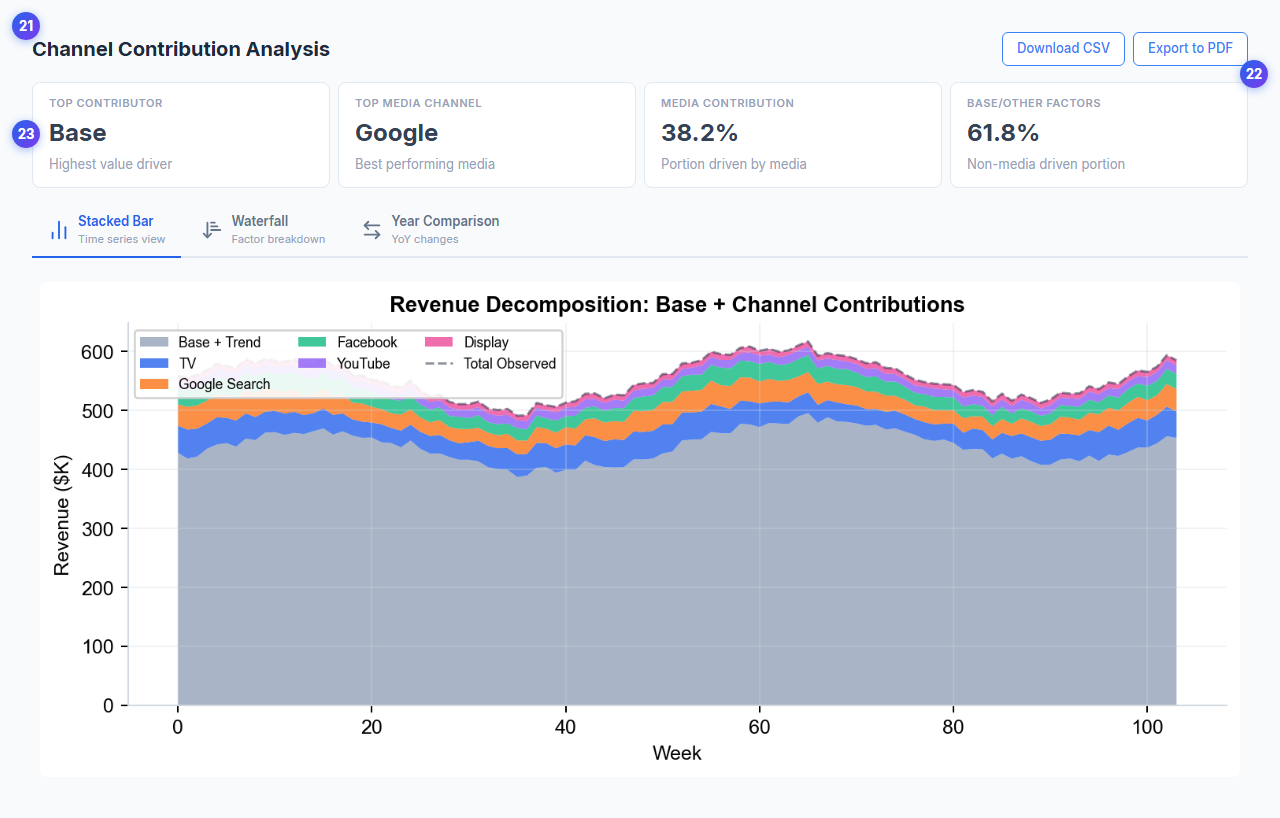
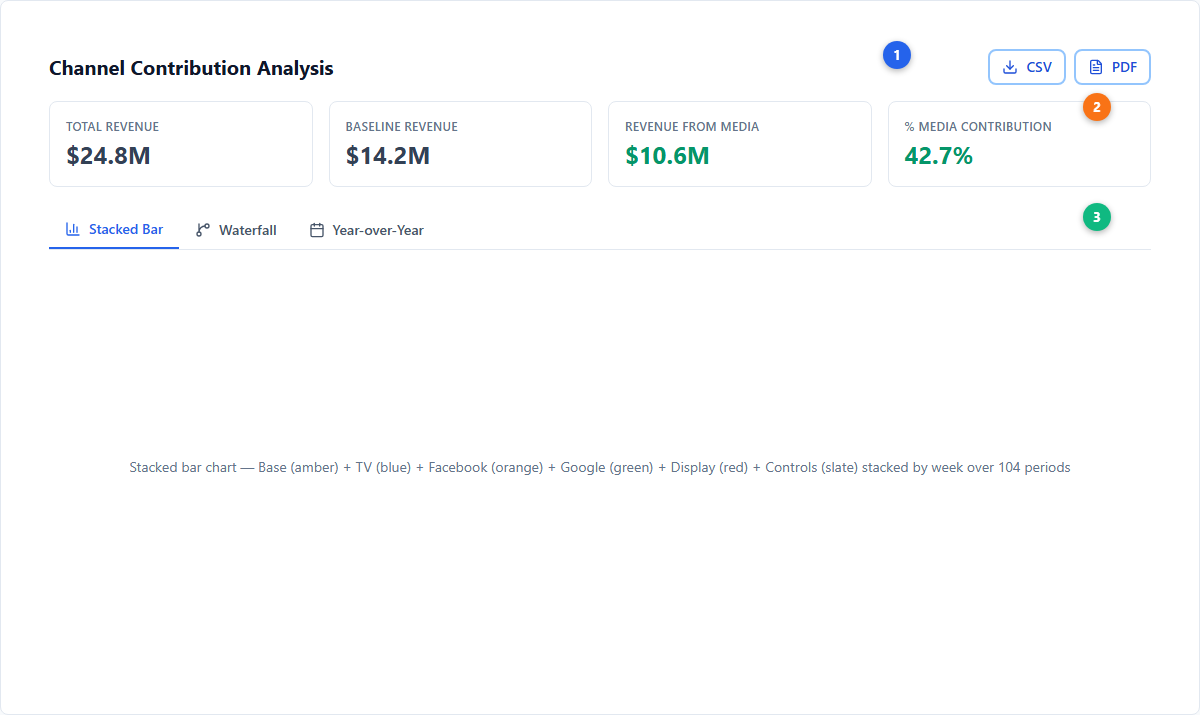
docs: add 9 UI mockups to measurement platform guide
- Create pixel-accurate mockups for all 7 MMM result tabs + VAR tab bar
  - Navigation/tab bar with Model Summary header
  - Coefficients: expandable table with green/red row highlighting
  - Model Stats: diagnostics table with traffic-light badges
  - AvM: metric cards + Plotly actual vs model chart
  - Residuals: 4 stat cards + Plotly histogram with normal overlay
  - Media Results: executive summary + channel performance table with
    halo (purple) and trademark (amber) badges
  - Curves: Plotly response curves with tanh saturation
  - Contributions: summary stats + stacked bar/waterfall/YoY tabs
  - VAR tabs: comparison showing analysis trio replacing MMM tabs
- Remove italic captions under images (annotation tables replace them)
- All screenshots verified: ≥1000px width, annotations visible, 8pt grid

diff --git a/docs/platform-guide/measurement.md b/docs/platform-guide/measurement.md
@@ -19,7 +19,6 @@ The Active Model page has three main areas:
 Every tab includes **Download CSV** and **Export to PDF** buttons for offline analysis and stakeholder reporting.
 
 ![Active Model navigation and metadata bar](./images/measurement-navigation-tabs.png)
-*The Model Summary bar and tab navigation for an MMM model. MMM models show seven tabs; VAR models show a different set with Impulse Response, Variance Decomposition, and Long-Run Effects replacing Media Results, Curves, and Contributions.*
 
 | # | Element | Description |
 |---|---------|-------------|
@@ -46,7 +45,6 @@ The Coefficients tab displays posterior parameter estimates in a table with thes
 Rows are color-coded: green background for positive coefficients, red background for negative. Clicking a row expands it to show either the full posterior sample detail or, for time-varying parameters (TVP), an interactive time series chart with [94% HDI](../core-concepts/bayesian-modeling.md) bands showing how the coefficient evolves over the model's date range.
 
 ![Coefficients table](./images/measurement-coefficients-tab.png)
-*The Coefficients table with posterior estimates. Green rows indicate positive effects; red rows indicate negative or near-zero effects. Click any row to expand and see detailed samples or time-varying coefficient charts.*
 
 | # | Element | Description |
 |---|---------|-------------|
@@ -66,7 +64,6 @@ The Model Stats tab presents a diagnostic summary table. Each row shows a test n
 Common diagnostics include R-squared (in-sample fit), MAPE (prediction accuracy), R-hat (convergence), Durbin-Watson (residual autocorrelation), residual normality, and overfitting risk.
 
 ![Model Stats diagnostic table](./images/measurement-model-stats-tab.png)
-*Model Performance Statistics showing diagnostic tests with traffic-light assessment badges. An R-squared above 0.7 and MAPE below 10% generally indicate a well-fitted model.*
 
 | # | Element | Description |
 |---|---------|-------------|
@@ -92,7 +89,6 @@ Out-of-sample metrics (when the model reserved a test set) appear with a blue le
 **Actual vs Posterior Predictive Chart** --- A Plotly time series overlaying the actual target variable against the model's posterior predictive mean, with HDI confidence bands.
 
 ![AvM model fit analysis](./images/measurement-avm-tab.png)
-*Model Fit Analysis showing in-sample and out-of-sample KPI cards with the Actual vs Posterior Predictive chart. Out-of-sample cards have a blue left border.*
 
 | # | Element | Description |
 |---|---------|-------------|
@@ -123,7 +119,6 @@ Below the summary cards, four visualization sub-tabs are available:
 For VAR models, a variable selector dropdown lets you inspect residuals for each endogenous variable independently.
 
 ![Residuals analysis](./images/measurement-residuals-tab.png)
-*Residuals Analysis with four diagnostic KPI cards and four visualization sub-tabs (Time Series, Distribution, Autocorrelation, Outliers).*
 
 | # | Element | Description |
 |---|---------|-------------|
@@ -161,7 +156,6 @@ Additional analysis sections include:
 - **Time Series Analysis** --- Collapsible section with per-channel time series of contributions
 
 ![Media Results performance dashboard](./images/measurement-media-results-tab.png)
-*Media Results showing executive summary KPIs, channel filter chips, performance table, and visualization charts.*
 
 | # | Element | Description |
 |---|---------|-------------|
@@ -185,7 +179,6 @@ The Curves tab shows three types of response analysis:
 A channel selector toolbar lets you choose which channels to display. A "Profit" overlay toggle shows where each channel crosses from profitable to unprofitable spend. If a VAR model is linked, a "Long Run Effects" toggle scales curves by long-run elasticity multipliers.
 
 ![Response Curves analysis](./images/measurement-curves-tab.png)
-*Response Curves tab with channel selector toolbar, revenue curves, decay curves, and marginal revenue analysis. The Long Run Effects toggle (green) appears when a VAR model is linked.*
 
 | # | Element | Description |
 |---|---------|-------------|
@@ -213,7 +206,6 @@ The Contributions tab decomposes the target variable into its component drivers 
 3. **Year Comparison** --- Year-over-year contribution comparison highlighting changes in channel effectiveness
 
 ![Channel Contribution Analysis](./images/measurement-contributions-tab.png)
-*Contributions tab with summary KPIs, chart type sub-tabs (Stacked Bar, Waterfall, Year Comparison), and the stacked bar time series.*
 
 | # | Element | Description |
 |---|---------|-------------|
@@ -263,7 +255,6 @@ The tab is organized into up to five sub-tabs:
 An **Analysis Configuration** card at the top summarizes the base variable, equity variables, horizon, confidence level, and whether log transformations were applied.
 
 ![VAR Model tabs](./images/measurement-var-tabs.png)
-*VAR model tab navigation showing Impulse Response, Variance Decomposition, and Long-Run Effects. The Long-Run Effects tab includes configuration summary, five analysis sub-tabs, and an elasticities table.*
 
 | # | Element | Description |
 |---|---------|-------------|
@@ -375,4 +366,4 @@ Groups are saved per model and persist across sessions. Colors assigned to group
 
 ---
 
-*For questions about interpreting model results, [open a GitHub issue](https://github.com/nialloulton/simba-mmm/issues) or email [info@pymc-labs.com](mailto:info@pymc-labs.com).*
+For questions about interpreting model results, [open a GitHub issue](https://github.com/nialloulton/simba-mmm/issues) or email [info@pymc-labs.com](mailto:info@pymc-labs.com).
